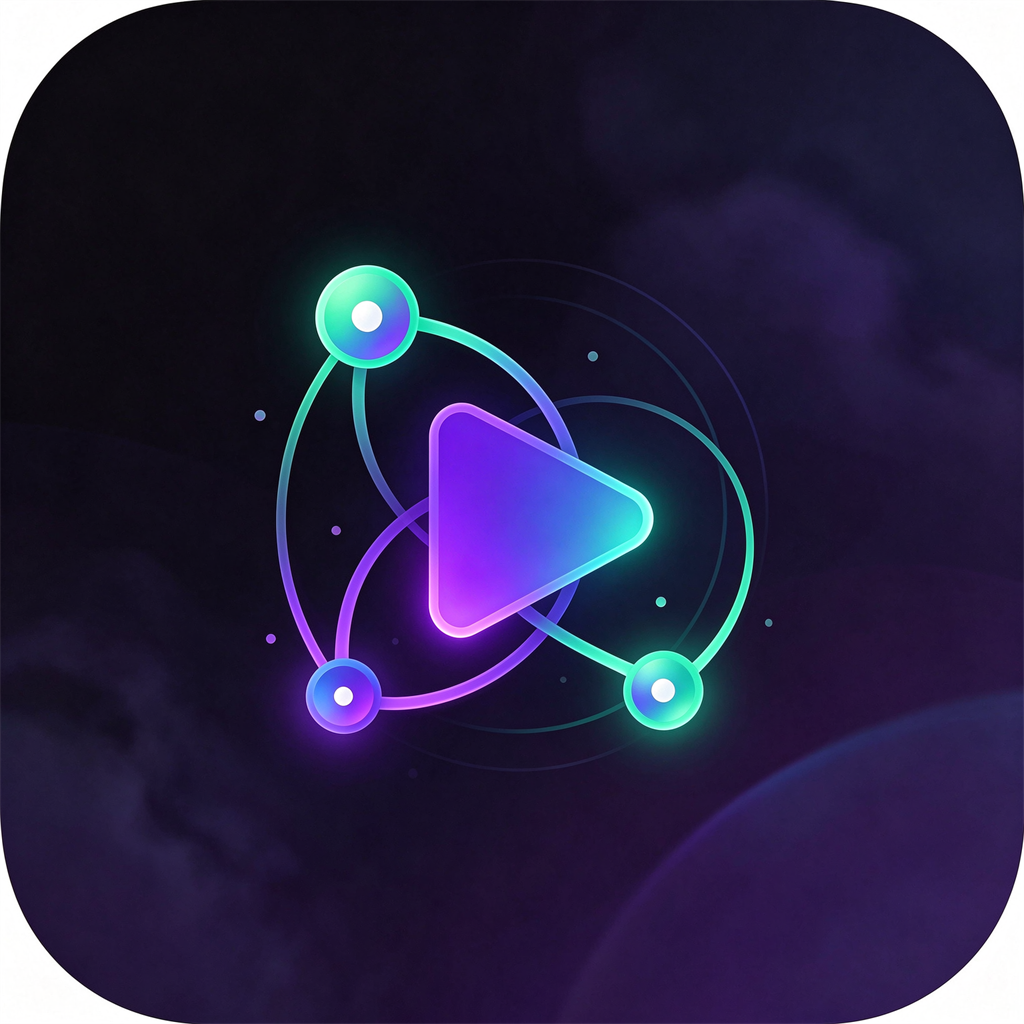
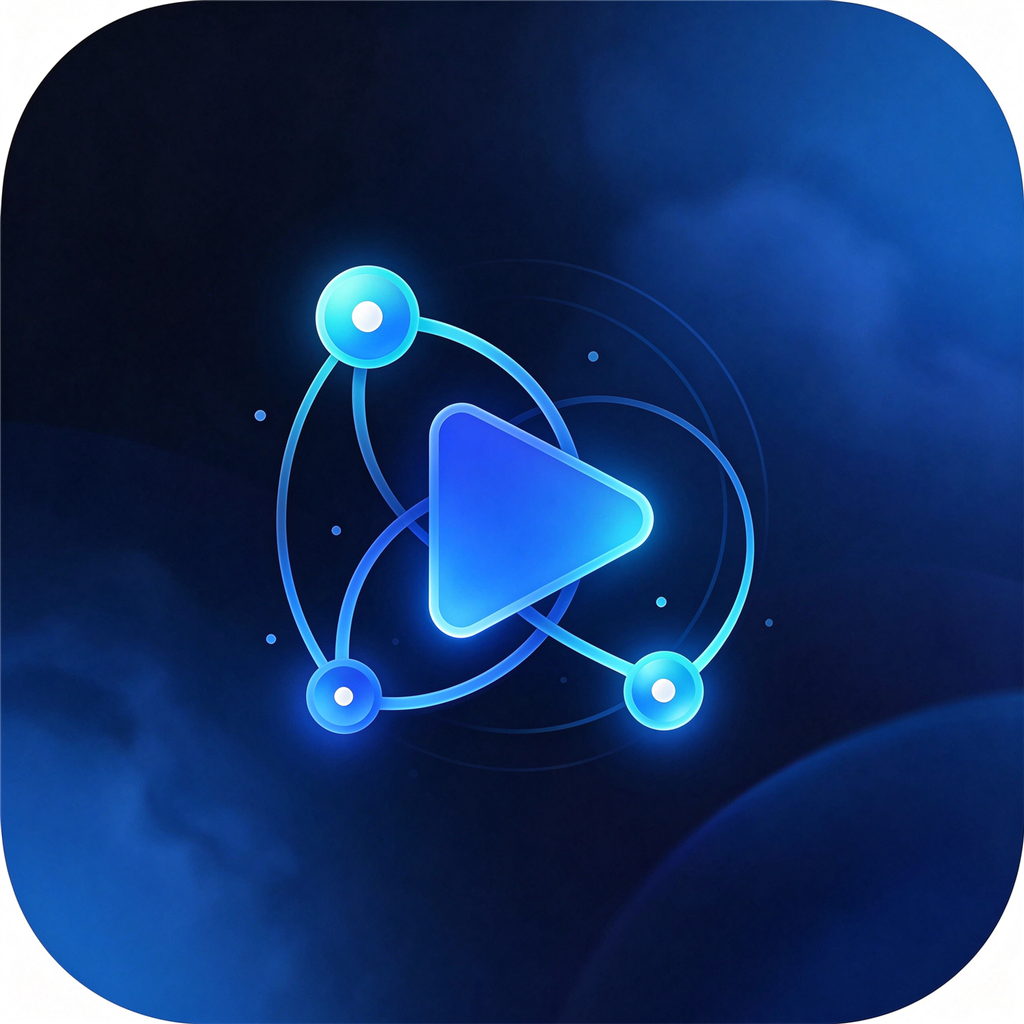
配色改为深空蓝：主题主色、OLED 深色面板与各处强调色统一换蓝，应用图标同步改为蓝色，版本号升至 0.2.1

diff --git a/lib/theme/app_palette.dart b/lib/theme/app_palette.dart
@@ -26,8 +26,8 @@ class AppPalette extends ThemeExtension<AppPalette> {
   static const AppPalette oled = AppPalette(
     background: Color(0xFF000000),
     surface: Color(0xFF000000),
-    surfaceHigh: Color(0xFF0C0C10),
-    border: Color(0xFF1A1A20),
+    surfaceHigh: Color(0xFF0B1220),
+    border: Color(0xFF1A2436),
     textPrimary: Color(0xFFFFFFFF),
     textSecondary: Color(0xB3FFFFFF),
     textFaint: Color(0x61FFFFFF),
@@ -35,13 +35,13 @@ class AppPalette extends ThemeExtension<AppPalette> {
 
   /// 浅色：白底深字。
   static const AppPalette light = AppPalette(
-    background: Color(0xFFF4F4F7),
+    background: Color(0xFFF3F6FC),
     surface: Color(0xFFFFFFFF),
-    surfaceHigh: Color(0xFFEFEFF4),
-    border: Color(0xFFDCDCE4),
-    textPrimary: Color(0xFF16161C),
-    textSecondary: Color(0xFF5A5A66),
-    textFaint: Color(0xFF9A9AA6),
+    surfaceHigh: Color(0xFFEAF0FB),
+    border: Color(0xFFD6E1F5),
+    textPrimary: Color(0xFF10182A),
+    textSecondary: Color(0xFF55607A),
+    textFaint: Color(0xFF97A2B8),
   );
 
   bool get isDark => background.computeLuminance() < 0.3;

diff --git a/lib/pages/player_page.dart b/lib/pages/player_page.dart
@@ -249,7 +249,7 @@ class _PlayerPageState extends State<PlayerPage> {
                       final selected = i == _index;
                       return ListTile(
                         selected: selected,
-                        selectedTileColor: const Color(0x229F7CFF),
+                        selectedTileColor: const Color(0x227FA6FF),
                         leading: selected
                             ? const Icon(Icons.play_arrow_rounded, size: 20)
                             : SizedBox(
@@ -582,7 +582,7 @@ class _PlayerPageState extends State<PlayerPage> {
             SliderTheme(
               data: SliderTheme.of(context).copyWith(
                 trackHeight: 2.4,
-                activeTrackColor: const Color(0xFF9F7CFF),
+                activeTrackColor: const Color(0xFF7FA6FF),
                 inactiveTrackColor: context.palette.textFaint,
                 thumbColor: context.palette.textPrimary,
                 thumbShape: const RoundSliderThumbShape(enabledThumbRadius: 6),

diff --git a/lib/pages/sources_page.dart b/lib/pages/sources_page.dart
@@ -310,12 +310,12 @@ class _SourceCard extends StatelessWidget {
                           Container(
                             padding: const EdgeInsets.symmetric(horizontal: 6, vertical: 2),
                             decoration: BoxDecoration(
-                              color: const Color(0x339F7CFF),
+                              color: const Color(0x337FA6FF),
                               borderRadius: BorderRadius.circular(5),
                             ),
                             child: const Text(
                               '当前',
-                              style: TextStyle(fontSize: 10, color: Color(0xFFB9A2FF)),
+                              style: TextStyle(fontSize: 10, color: Color(0xFFAFC8FF)),
                             ),
                           ),
                         ],

diff --git a/lib/theme/app_theme.dart b/lib/theme/app_theme.dart
@@ -4,8 +4,8 @@ import 'app_palette.dart';
 
 /// 主题工厂：深色为 OLED 纯黑，浅色为白底。
 class AppTheme {
-  static const Color seed = Color(0xFF8B5CF6);
-  static const Color seedDark = Color(0xFF9F7CFF);
+  static const Color seed = Color(0xFF2F6BFF);
+  static const Color seedDark = Color(0xFF7FA6FF);
 
   static ThemeData dark() => _build(AppPalette.oled, Brightness.dark);
   static ThemeData light() => _build(AppPalette.light, Brightness.light);

diff --git a/lib/pages/search_page.dart b/lib/pages/search_page.dart
@@ -261,7 +261,7 @@ class _SearchResultTile extends StatelessWidget {
                 Container(
                   padding: const EdgeInsets.symmetric(horizontal: 8, vertical: 3),
                   decoration: BoxDecoration(
-                    color: const Color(0xFF23232F),
+                    color: const Color(0xFF1A2436),
                     borderRadius: BorderRadius.circular(6),
                   ),
                   child: Text(

diff --git a/lib/pages/history_page.dart b/lib/pages/history_page.dart
@@ -170,7 +170,7 @@ class _HistoryTile extends StatelessWidget {
                       value: item.progress,
                       minHeight: 3,
                       backgroundColor: context.palette.textFaint,
-                      color: const Color(0xFF9F7CFF),
+                      color: const Color(0xFF7FA6FF),
                     ),
                   ),
                   const SizedBox(height: 8),

diff --git a/lib/pages/detail_page.dart b/lib/pages/detail_page.dart
@@ -438,7 +438,7 @@ class _DetailPageState extends State<DetailPage> {
         padding: const EdgeInsets.fromLTRB(16, 10, 12, 10),
         decoration: BoxDecoration(
           color: context.palette.surfaceHigh,
-          border: Border(top: BorderSide(color: Color(0xFF23232E))),
+          border: Border(top: BorderSide(color: Color(0xFF1A2436))),
         ),
         child: Row(
           children: [

diff --git a/lib/widgets/brand_mark.dart b/lib/widgets/brand_mark.dart
@@ -16,7 +16,7 @@ class BrandMark extends StatelessWidget {
         borderRadius: BorderRadius.circular(size * 0.22),
         boxShadow: [
           BoxShadow(
-            color: const Color(0x559F7CFF),
+            color: const Color(0x557FA6FF),
             blurRadius: size * 0.32,
             spreadRadius: size * 0.01,
           ),

diff --git a/lib/core/constants.dart b/lib/core/constants.dart
@@ -1,6 +1,6 @@
 const String kAppName = '影枢';
 const String kAppNameEn = 'CineHub';
-const String kAppVersion = '0.2.0';
+const String kAppVersion = '0.2.1';
 const String kAppPackage = 'com.yingshu.player';
 
 /// 部分苹果CMS站点会校验 UA，默认伪装成桌面浏览器。

diff --git a/README.md b/README.md
@@ -93,7 +93,7 @@ namespace = "com.yingshu.player"
 
 ```
 assets/branding/
-├── app_icon.png       # 1024×1024 图标母图（深空紫 + 播放三角 + 三节点聚合网络）
+├── app_icon.png       # 1024×1024 图标母图（深空蓝 + 播放三角 + 三节点聚合网络）
 └── app_icon_512.png   # 512 预览图
 tool/apply_branding.ps1 # 平台品牌信息与图标落地脚本
 ```
